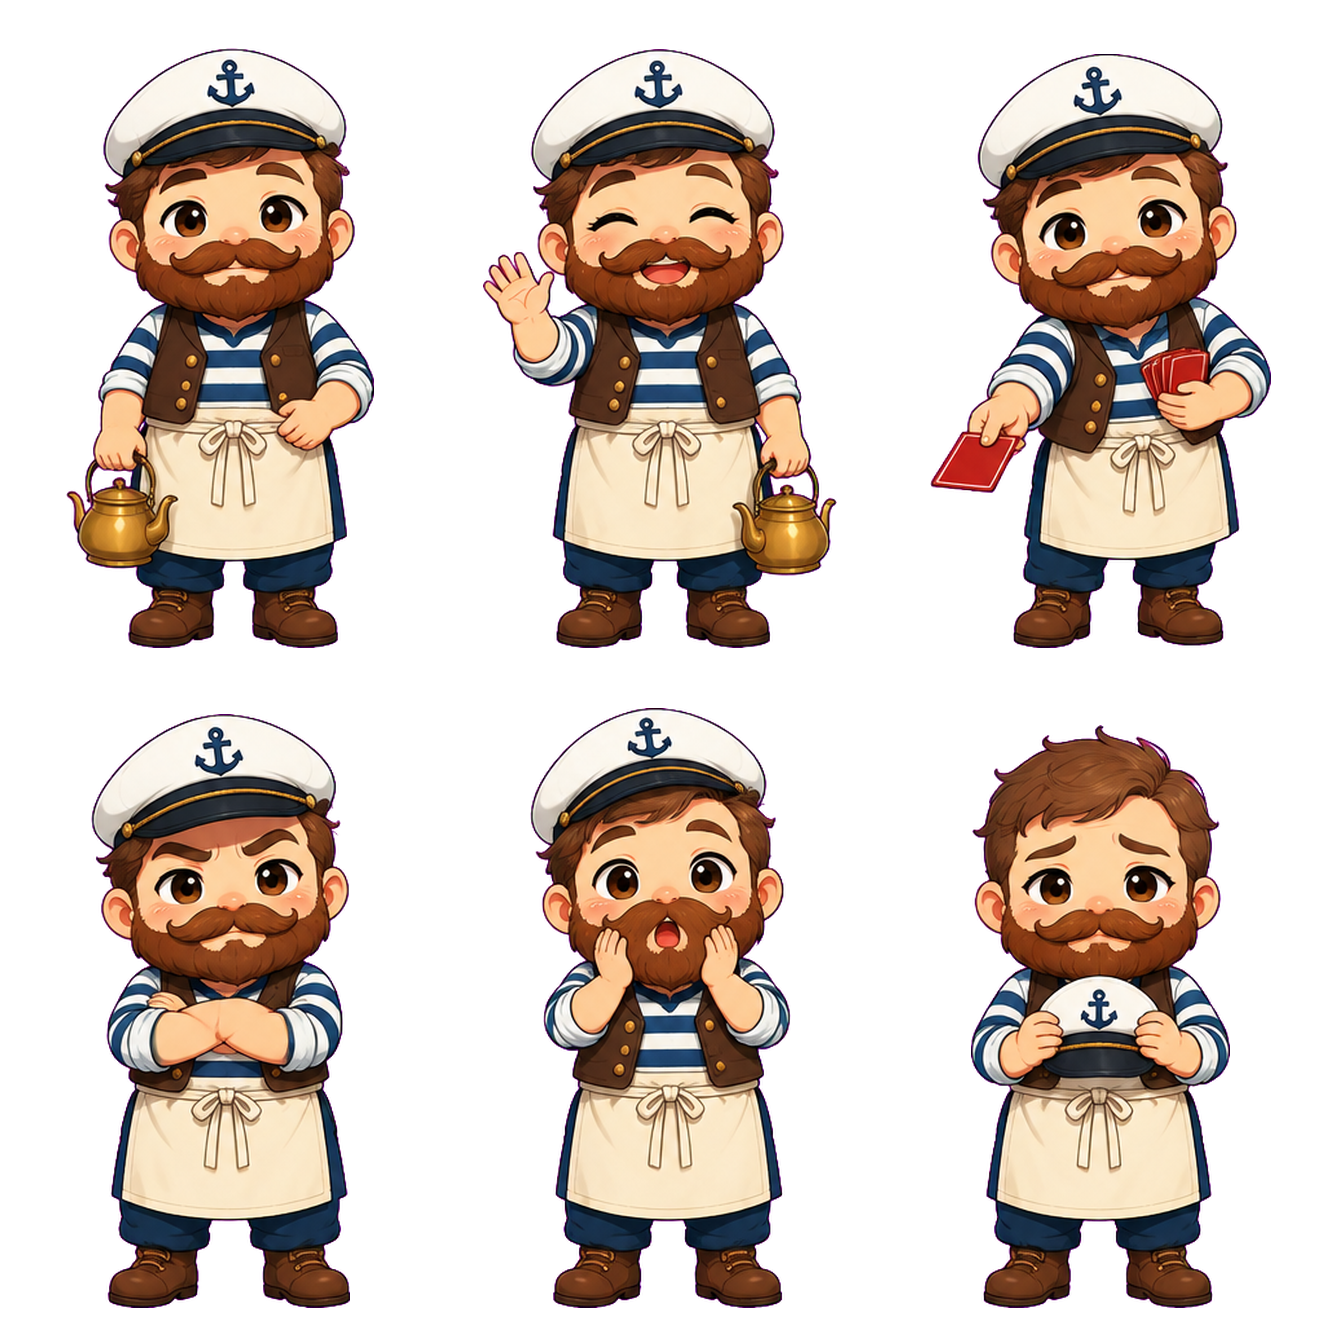
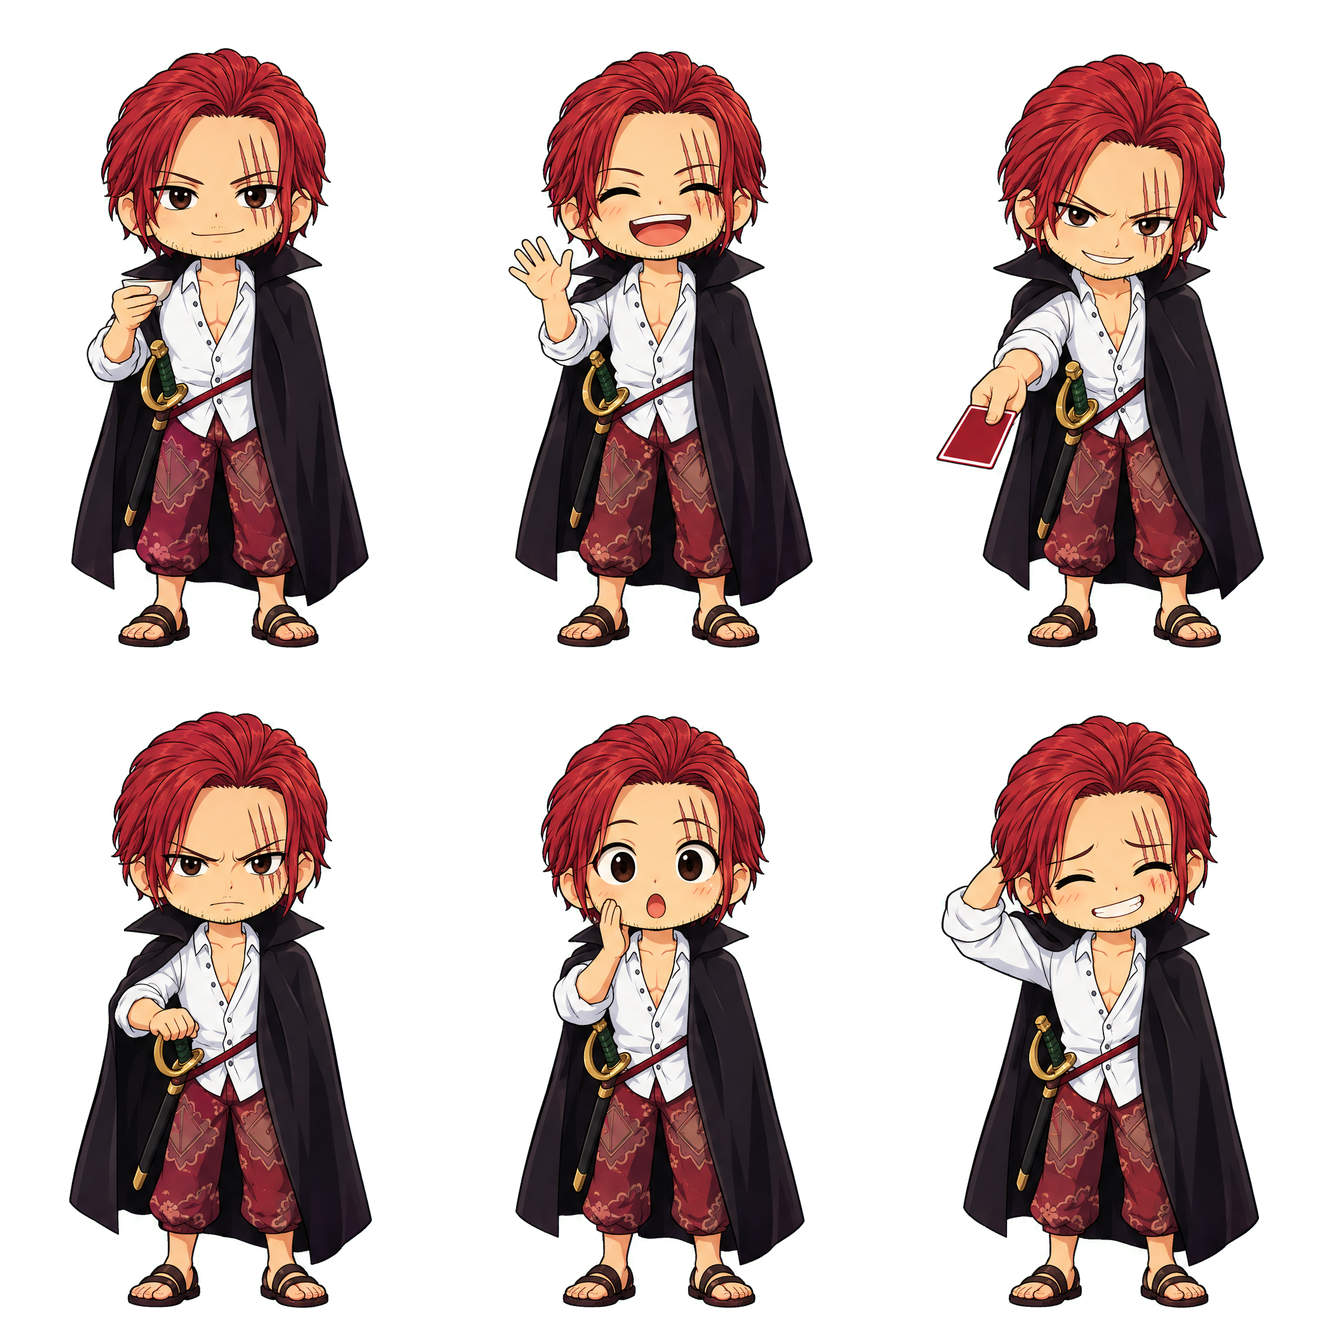
Art: 샹크스 and 예림이 tall art, chibi and host sheets (captain / maehwa)
Keys the new originals through optimize-assets.mjs (npcs shanks jeong,
hosts captain maehwa), replaces host-captain.* and host-maehwa.*, adds
npc-{shanks,jeong} sprites and portraits and their chibis, and records
the web copies in shanks-jeong-generation.json. Resident ids stay.

Claude-Session: https://claude.ai/code/session_01HULavEv6pBxEfDeGCKxeDu

diff --git a/app/lounge-assets.ts b/app/lounge-assets.ts
@@ -168,14 +168,15 @@ export const LOUNGE_ASSETS = {
   daowonBuns: '/assets/lounge/daowon-buns.webp',
   daowonOutfits: '/assets/lounge/daowon-outfits.webp',
   hachimaki: '/assets/lounge/hachimaki.webp',
-  // Table hosts (루미 / 매화): keyed 3×2 pose sheets, see lounge-host-sprites.ts.
+  // Table hosts (미쿠 / 예림이): keyed 3×2 pose sheets, see lounge-host-sprites.ts.
+  // 예림이's sheet is laid out from _originals/host-jeong.png (shanks-jeong-generation.json).
   hostLumi: '/assets/lounge/host-lumi.webp',
   hostMaehwa: '/assets/lounge/host-maehwa.webp',
   casinoLenderSprite: '/assets/lounge/casino-lender-rose.webp',
   bankClerkSprite: '/assets/lounge/bank-clerk-nyamo.webp',
   bankClerkPortrait: '/assets/lounge/bank-clerk-nyamo-portrait.webp',
   salonStylistSprite: '/assets/lounge/salon-stylist-gwen.webp',
-  // Round notebook portraits of 로제 / 냐모 / 그웬, cut from their sprites (optimize-assets.mjs npcs).
+  // Round notebook portraits of 미스 포츈 / 나모 / 그웬, cut from their sprites (optimize-assets.mjs npcs).
   casinoLenderFace: '/assets/lounge/casino-lender-rose-face.webp',
   bankClerkFace: '/assets/lounge/bank-clerk-nyamo-face.webp',
   salonStylistFace: '/assets/lounge/salon-stylist-gwen-face.webp',
@@ -220,6 +221,11 @@ export const LOUNGE_ASSETS = {
   // 범마을 증권 무잔 (broker-muzan-generation.json; keyed by optimize-assets.mjs npcs).
   npc_muzan: '/assets/lounge/npc-muzan.webp',
   npc_muzan_portrait: '/assets/lounge/npc-muzan-portrait.webp',
+  // 허풍 주점 샹크스 · 화투방 예림이 (shanks-jeong-generation.json; keyed by optimize-assets.mjs npcs).
+  npc_shanks: '/assets/lounge/npc-shanks.webp',
+  npc_shanks_portrait: '/assets/lounge/npc-shanks-portrait.webp',
+  npc_jeong: '/assets/lounge/npc-jeong.webp',
+  npc_jeong_portrait: '/assets/lounge/npc-jeong-portrait.webp',
   // Village NPCs, stage 3 (stage3-npcs-generation.json; keyed by optimize-assets.mjs npcs).
   npc_nilah: '/assets/lounge/npc-nilah.webp',
   npc_haku: '/assets/lounge/npc-haku.webp',
@@ -258,16 +264,19 @@ export const LOUNGE_ASSETS = {
   chibi_mercy: '/assets/lounge/chibi/npc-mercy.webp',
   // 신이치's chibi wears his 코난 disguise (user decision).
   chibi_shinichi: '/assets/lounge/chibi/npc-shinichi.webp',
-  // 루미 · 매화 walking chibis (lumi-maehwa-chibi-generation.json); the tables keep their pose sheets.
+  // 미쿠's walking chibi (lumi-maehwa-chibi-generation.json); the tables keep their pose sheets.
   chibi_lumi: '/assets/lounge/chibi/npc-lumi.webp',
-  chibi_maehwa: '/assets/lounge/chibi/npc-maehwa.webp',
+  // 샹크스 · 예림이 walking chibis (shanks-jeong-generation.json).
+  chibi_shanks: '/assets/lounge/chibi/npc-shanks.webp',
+  chibi_jeong: '/assets/lounge/chibi/npc-jeong.webp',
   chibi_muzan: '/assets/lounge/chibi/npc-muzan.webp',
   tavernCardKing: '/assets/lounge/cards/tavern-king.webp',
   tavernCardQueen: '/assets/lounge/cards/tavern-queen.webp',
   tavernCardAce: '/assets/lounge/cards/tavern-ace.webp',
   tavernCardJoker: '/assets/lounge/cards/tavern-joker.webp',
   tavernCardBack: '/assets/lounge/cards/tavern-back.webp',
-  // 허 선장 (허풍 주점): same 3×2 layout, generated 2026-09-26 (host-captain.prompt.txt).
+  // 샹크스 (허풍 주점): same 3×2 layout, laid out from _originals/host-shanks.png
+  // (shanks-jeong-generation.json; optimize-assets.mjs hosts).
   hostCaptain: '/assets/lounge/host-captain.webp',
   // 부동산 신형만 · 봉미선: one sheet per person cut from _originals/host-realtor-nohara.png
   // (shopkeepers-generation.json; optimize-assets.mjs hosts).

diff --git a/app/lounge-npc-chibi.ts b/app/lounge-npc-chibi.ts
@@ -35,9 +35,11 @@ export const NPC_CHIBI: Partial<Record<NpcId, NpcChibi>> = {
   ornn: { asset: A.chibi_ornn, w: 512, h: 640 },
   mercy: { asset: A.chibi_mercy, w: 512, h: 640 },
   shinichi: { asset: A.chibi_shinichi, w: 512, h: 640 },
-  // 루미 · 매화 walk the village on breaks; at their tables they keep the pose sheet.
+  // 미쿠 · 예림이 walk the village on breaks; at their tables they keep the pose sheet.
   lumi: { asset: A.chibi_lumi, w: 512, h: 640 },
-  maehwa: { asset: A.chibi_maehwa, w: 512, h: 640 },
+  maehwa: { asset: A.chibi_jeong, w: 512, h: 640 },
+  // 샹크스 behind the tavern's bar, at the pier and on his walks.
+  captain: { asset: A.chibi_shanks, w: 512, h: 640 },
   // 범마을 증권 무잔 behind the broker's counter and on his evening walks.
   muzan: { asset: A.chibi_muzan, w: 512, h: 640 },
 };
